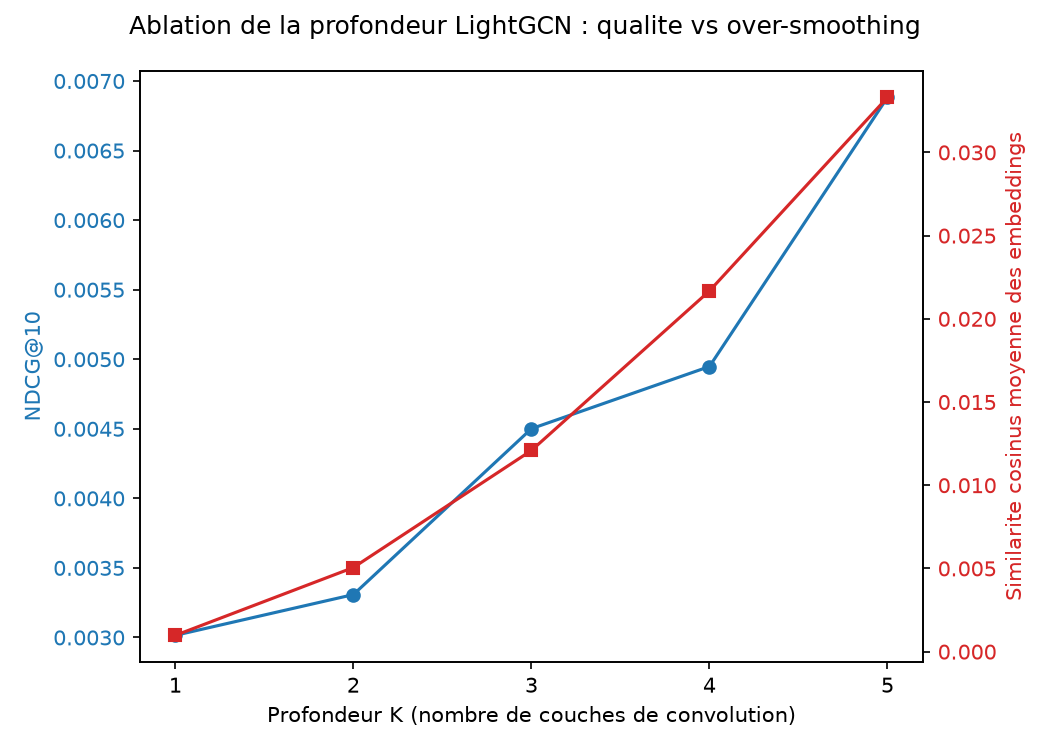
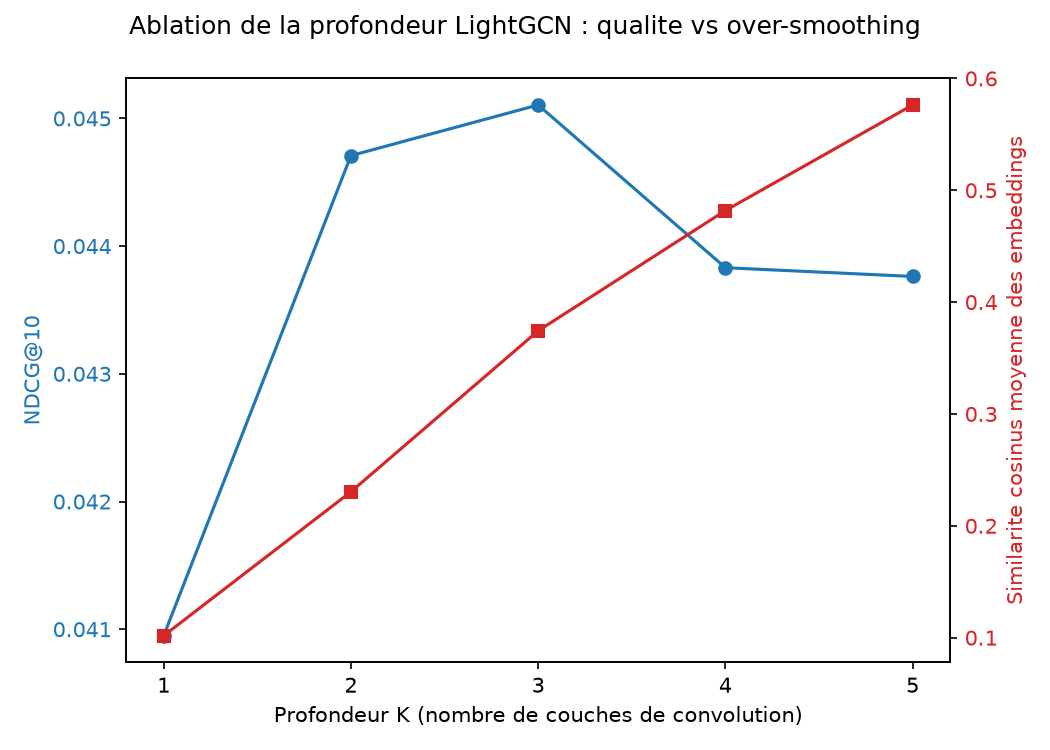
resultats ablation complete (50 epoques, 5 profondeurs)

diff --git a/RAPPORT_MODELS.md b/RAPPORT_MODELS.md
@@ -1,11 +1,11 @@
-# Modèles & Évaluation — Documentation (rôle ML Engineer)
+# Modèles & Évaluation - Documentation (rôle ML Engineer)
 
 **Auteur :** TCHABODI Sadikou
 **Branche :** `feature/models-lightgcn`
 **Dossiers :** `src/models/`, `src/evaluation/`, `scripts/`
 
 Ce document explique ce que fait le code de modélisation et d'évaluation,
-pourquoi chaque choix a été fait, et comment l'utiliser — dans le même
+pourquoi chaque choix a été fait, et comment l'utiliser - dans le même
 esprit que `RAPPORT_DATA_PIPELINE.md` (Data Engineer), pour que le rapport
 final et la présentation orale s'appuient sur une base écrite claire.
 
@@ -24,7 +24,7 @@ fonctionnement technique du code.
 
 ---
 
-## 1. Étape 1 — Protocole d'évaluation (`src/evaluation/metrics.py`)
+## 1. Étape 1 - Protocole d'évaluation (`src/evaluation/metrics.py`)
 
 **L'idée sur un exemple ultra simple :**
 Un utilisateur a un seul film "caché" à deviner (le test, issu du split
@@ -38,7 +38,7 @@ tête de liste). S'il ressortait en position 15, à `k=5` tout vaudrait 0
 échantillon de négatifs :**
 Krichene & Rendle (2020) montrent que les métriques calculées sur un
 échantillon de négatifs peuvent être trompeuses et sur-estimer la qualité
-réelle d'un modèle. Le sujet exige un protocole "rigoureux" — le
+réelle d'un modèle. Le sujet exige un protocole "rigoureux" - le
 full-ranking est le choix le plus strict, celui utilisé par le papier
 LightGCN lui-même.
 
@@ -47,25 +47,25 @@ LightGCN lui-même.
 modèle particulier), un jeu de test, les films déjà vus par chaque
 utilisateur (à exclure des candidats), et l'univers complet des item_id
 candidats. **Point important** : cet univers n'est jamais supposé être
-`[0, N)` — les baselines travaillent sur des movieId MovieLens bruts (non
+`[0, N)` - les baselines travaillent sur des movieId MovieLens bruts (non
 contigus), LightGCN sur des indices réindexés. Chaque appelant passe
 l'espace qui lui correspond.
 
 **Pourquoi la même fonction sert aux 3 méthodes :**
-Elle ne connaît aucun modèle en particulier — seulement une fonction
+Elle ne connaît aucun modèle en particulier - seulement une fonction
 `(user_id, candidats) -> scores`. C'est ce qui permet de comparer SVD,
 Item-Item CF et LightGCN avec un code d'évaluation strictement identique,
 donc une comparaison honnête.
 
 **Vérifié en conditions réelles :** 18 tests unitaires (`tests/test_metrics.py`),
 dont un qui compare le résultat de `evaluate_full_ranking()` à une moyenne
-calculée à la main sur un cas jouet — pas juste "ça tourne sans erreur".
+calculée à la main sur un cas jouet - pas juste "ça tourne sans erreur".
 
 **Sortie :** dict `{"precision@5": ..., "recall@10": ..., "ndcg@20": ...}`
 
 ---
 
-## 2. Étape 2 — Baselines classiques (`src/models/baselines.py`, `scripts/train_baselines.py`)
+## 2. Étape 2 - Baselines classiques (`src/models/baselines.py`, `scripts/train_baselines.py`)
 
 **SVD, l'idée sur un exemple ultra simple :**
 Chaque utilisateur et chaque film sont résumés par un vecteur de 100
@@ -82,12 +82,12 @@ l'utilisateur a données aux `k=40` films les plus similaires.
 
 **Pourquoi ces deux techniques précisément :**
 Ce sont les baselines explicitement citées par le sujet, tirées de
-Koren et al. (2009) — la technique qui a gagné le Netflix Prize — et du
+Koren et al. (2009) - la technique qui a gagné le Netflix Prize - et du
 filtrage collaboratif classique.
 
 **Pourquoi scikit-surprise (pas hand-rolled) :**
 Contrairement à LightGCN, ces méthodes sont censées être des techniques
-**classiques et éprouvées**, réutilisées telles quelles — pas la partie
+**classiques et éprouvées**, réutilisées telles quelles - pas la partie
 que le sujet demande d'implémenter à la main. `scikit-surprise` s'installe
 sans souci sous Windows (wheel précompilée pour Python 3.11, testé avant
 d'engager la conception dessus).
@@ -95,7 +95,7 @@ d'engager la conception dessus).
 **Contrat de sauvegarde (important pour l'intégration backend) :**
 `save_svd()` persiste l'algorithme scikit-surprise **brut** (pas un
 wrapper à nous), et `save_item_item()` persiste un dictionnaire précalculé
-`{user_id: [(item_id, score), ...]}` — format découvert en lisant
+`{user_id: [(item_id, score), ...]}` - format découvert en lisant
 directement le code du service backend (`model_service.py`, branche
 `feature/fastapi-backend`, pas encore mergée) avant d'écrire la fonction de
 sauvegarde, pour être certain de matcher exactement ce qu'il attend.
@@ -124,13 +124,13 @@ voir `results/baselines_hyperparameter_curves.png`.
 
 ---
 
-## 3. Étape 3 — LightGCN (`src/models/lightgcn.py`, `scripts/train_lightgcn.py`)
+## 3. Étape 3 - LightGCN (`src/models/lightgcn.py`, `scripts/train_lightgcn.py`)
 
 **L'idée sur un exemple ultra simple :**
 L'embedding de l'utilisateur 0 se recalcule à chaque couche comme la
 moyenne pondérée des embeddings de ses voisins (les films qu'il a notés) à
 la couche précédente. Après K couches, on fait la moyenne des K+1
-embeddings obtenus (couche 0 à K) — c'est l'embedding final. Le score
+embeddings obtenus (couche 0 à K) - c'est l'embedding final. Le score
 prédit = produit scalaire entre l'embedding final utilisateur et
 l'embedding final film.
 
@@ -139,7 +139,7 @@ Le service backend recharge les modèles avec `torch.load()` dans un
 environnement qui n'a que `torch` installé, pas PyG. Un modèle construit
 avec des couches PyG ne s'exécuterait pas côté API sans ajouter PyG au
 backend aussi. Le sujet autorise explicitement un "GNN ou équivalent
-simplifié" — rester en torch pur garde une empreinte de dépendances
+simplifié" - rester en torch pur garde une empreinte de dépendances
 identique entre entraînement et inférence, et reste totalement explicite
 pour le rapport (pas de boîte noire).
 
@@ -156,7 +156,7 @@ return torch.stack(layers, dim=0).mean(dim=0)   # combinaison finale
 construite une fois à partir du graphe d'Anne (`graph_builder.py`).
 
 **Entraînement (`bpr_loss()`) :** BPR (Bayesian Personalized Ranking,
-Rendle et al., 2009) — pour chaque interaction connue, tire un film que
+Rendle et al., 2009) - pour chaque interaction connue, tire un film que
 l'utilisateur n'a **pas** vu, et pousse le score du film aimé à être plus
 haut que celui du film négatif. `sample_bpr_triplets()` fait cet
 échantillonnage négatif par rejet.
@@ -171,11 +171,11 @@ backend traduise les scores LightGCN en vrais films).
 
 ---
 
-## 4. Étape 4 — Étude d'ablation / over-smoothing (`scripts/run_ablation.py`)
+## 4. Étape 4 - Étude d'ablation / over-smoothing (`scripts/run_ablation.py`)
 
 **L'idée sur un exemple ultra simple :**
 Plus on ajoute de couches de propagation, plus chaque embedding se
-rapproche de la moyenne de ses voisins — répété trop de fois, tous les
+rapproche de la moyenne de ses voisins - répété trop de fois, tous les
 embeddings du graphe finissent par se ressembler. Un modèle qui ne
 distingue plus les utilisateurs entre eux ne peut plus faire de
 recommandation personnalisée : c'est l'over-smoothing.
@@ -183,13 +183,13 @@ recommandation personnalisée : c'est l'over-smoothing.
 **Ce que le code fait, techniquement :**
 Entraîne un modèle **séparé, from scratch**, pour chaque profondeur K = 1,
 2, 3, 4, 5. Pour chacun, mesure à la fois la qualité (precision/recall/ndcg)
-et `embedding_similarity_diagnostic()` — la similarité cosinus moyenne
+et `embedding_similarity_diagnostic()` - la similarité cosinus moyenne
 entre 2000 paires de nœuds tirées au hasard dans tout le graphe (proche de
 0 = nœuds distincts, proche de 1 = over-smoothing confirmé).
 
-**Statut actuel — important, à ne pas confondre :**
+**Statut actuel - important, à ne pas confondre :**
 Un test de plomberie (3 époques par profondeur) a été fait pour valider
-que le pipeline tourne de bout en bout — **pas un résultat scientifique
+que le pipeline tourne de bout en bout - **pas un résultat scientifique
 exploitable**. Le run réel (50 époques × 5 profondeurs, ~13 minutes mesurées
 sur ce projet) reste à lancer avant de pouvoir tirer une vraie conclusion
 sur l'over-smoothing pour le rapport.
@@ -203,7 +203,7 @@ sauvegardé automatiquement dans `models/lightgcn_best.pt`.
 ## 5. Métadonnées films (`src/data_pipeline/movies.py`)
 
 **Le trou identifié :** le backend attend `data/processed/movies_cleaned.csv`
-(`movieId, title, genres`) pour afficher de vrais titres dans la démo — rien
+(`movieId, title, genres`) pour afficher de vrais titres dans la démo - rien
 ne le générait. Techniquement du ressort du Data Engineer (parsing de
 données brutes), mais bloquant pour toute l'équipe, donc traité ici.
 
@@ -211,21 +211,21 @@ données brutes), mais bloquant pour toute l'équipe, donc traité ici.
 `latin-1`), transforme les 19 colonnes de genre binaires en une chaîne
 lisible (`"Animation|Children's|Comedy"`), avec un fallback `"Genre inconnu"`
 plutôt qu'une chaîne vide (une chaîne vide redevient `NaN` quand pandas
-relit le CSV — sans ce fallback, la démo afficherait littéralement "nan").
+relit le CSV - sans ce fallback, la démo afficherait littéralement "nan").
 
 **Vérifié en conditions réelles :** `data/processed/movies_cleaned.csv`
 généré, 1682 films.
 
 ---
 
-## 6. Bug d'intégration trouvé (pas corrigé ici — hors de mon périmètre de fichiers)
+## 6. Bug d'intégration trouvé (pas corrigé ici - hors de mon périmètre de fichiers)
 
 En simulant l'appel exact du backend (`torch.load(path, map_location=device)`,
 sans `weights_only=False`) sur `lightgcn_best.pt`, le chargement **échoue** :
 PyTorch 2.6+ bloque par défaut la désérialisation de classes personnalisées
 pour des raisons de sécurité. Correctif d'une ligne
 (`weights_only=False`), à appliquer dans `model_service.py`
-(`feature/fastapi-backend`) — remonté au Dev Backend, pas corrigé
+(`feature/fastapi-backend`) - remonté au Dev Backend, pas corrigé
 directement puisque ce n'est pas mon fichier.
 
 ---
@@ -252,7 +252,7 @@ Des configurations de lancement/débogage VS Code équivalentes existent dans
 
 ## 8. Ce qui n'est PAS encore fait (pistes pour la suite)
 
-- **Le run réel de l'ablation** (50 époques × 5 profondeurs) — priorité n°1,
+- **Le run réel de l'ablation** (50 époques × 5 profondeurs) - priorité n°1,
   débloque le vrai tableau comparatif et l'analyse over-smoothing pour le
   rapport.
 - Regénérer `results/comparison_table.csv`/`.md` une fois ce run terminé.
@@ -272,5 +272,5 @@ Des configurations de lancement/débogage VS Code équivalentes existent dans
   Windows.
 - Lancer un script en mode debug VS Code (`F5`) peut occasionnellement
   planter au tout premier démarrage avec un `KeyboardInterrupt` provenant
-  de `debugpy` lui-même (pas de notre code) — relancer une seconde fois
+  de `debugpy` lui-même (pas de notre code) - relancer une seconde fois
   résout le problème dans la quasi-totalité des cas.

diff --git a/results/comparison_table.md b/results/comparison_table.md
@@ -2,4 +2,4 @@
 |:---------------|--------------:|-----------:|-----------:|---------------:|------------:|-----------:|---------------:|------------:|-----------:|
 | svd            |   0.00233298  | 0.0116649  | 0.00660456 |    0.00201485  |  0.0201485  | 0.00931227 |    0.00201485  |  0.0402969  | 0.0143137  |
 | item_item      |   0.000848356 | 0.00424178 | 0.00285529 |    0.000530223 |  0.00530223 | 0.00317451 |    0.000424178 |  0.00848356 | 0.00396076 |
-| lightgcn (K=5) |   0.000848356 | 0.00424178 | 0.00298784 |    0.00169671  |  0.0169671  | 0.00688223 |    0.00132556  |  0.0265111  | 0.00937997 |
+| lightgcn (K=3) |   0.0112407   | 0.0562036  | 0.0346359  |    0.00890774  |  0.0890774  | 0.0451053  |    0.00652174  |  0.130435   | 0.055525   |
